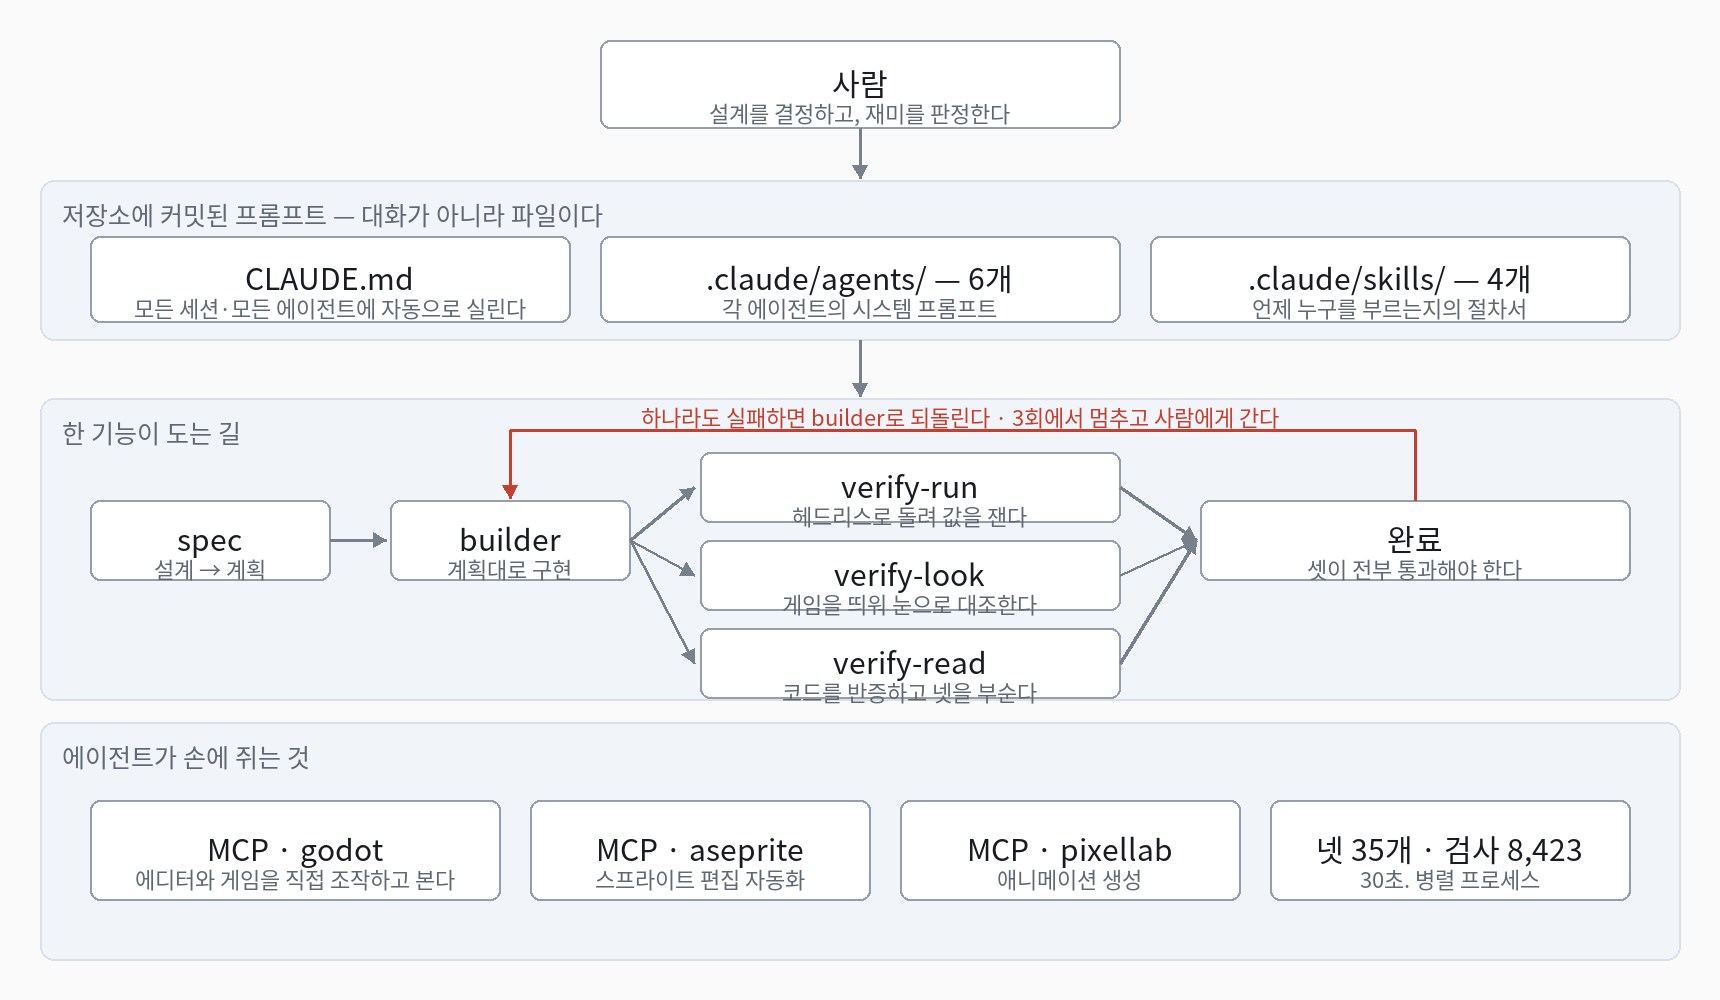
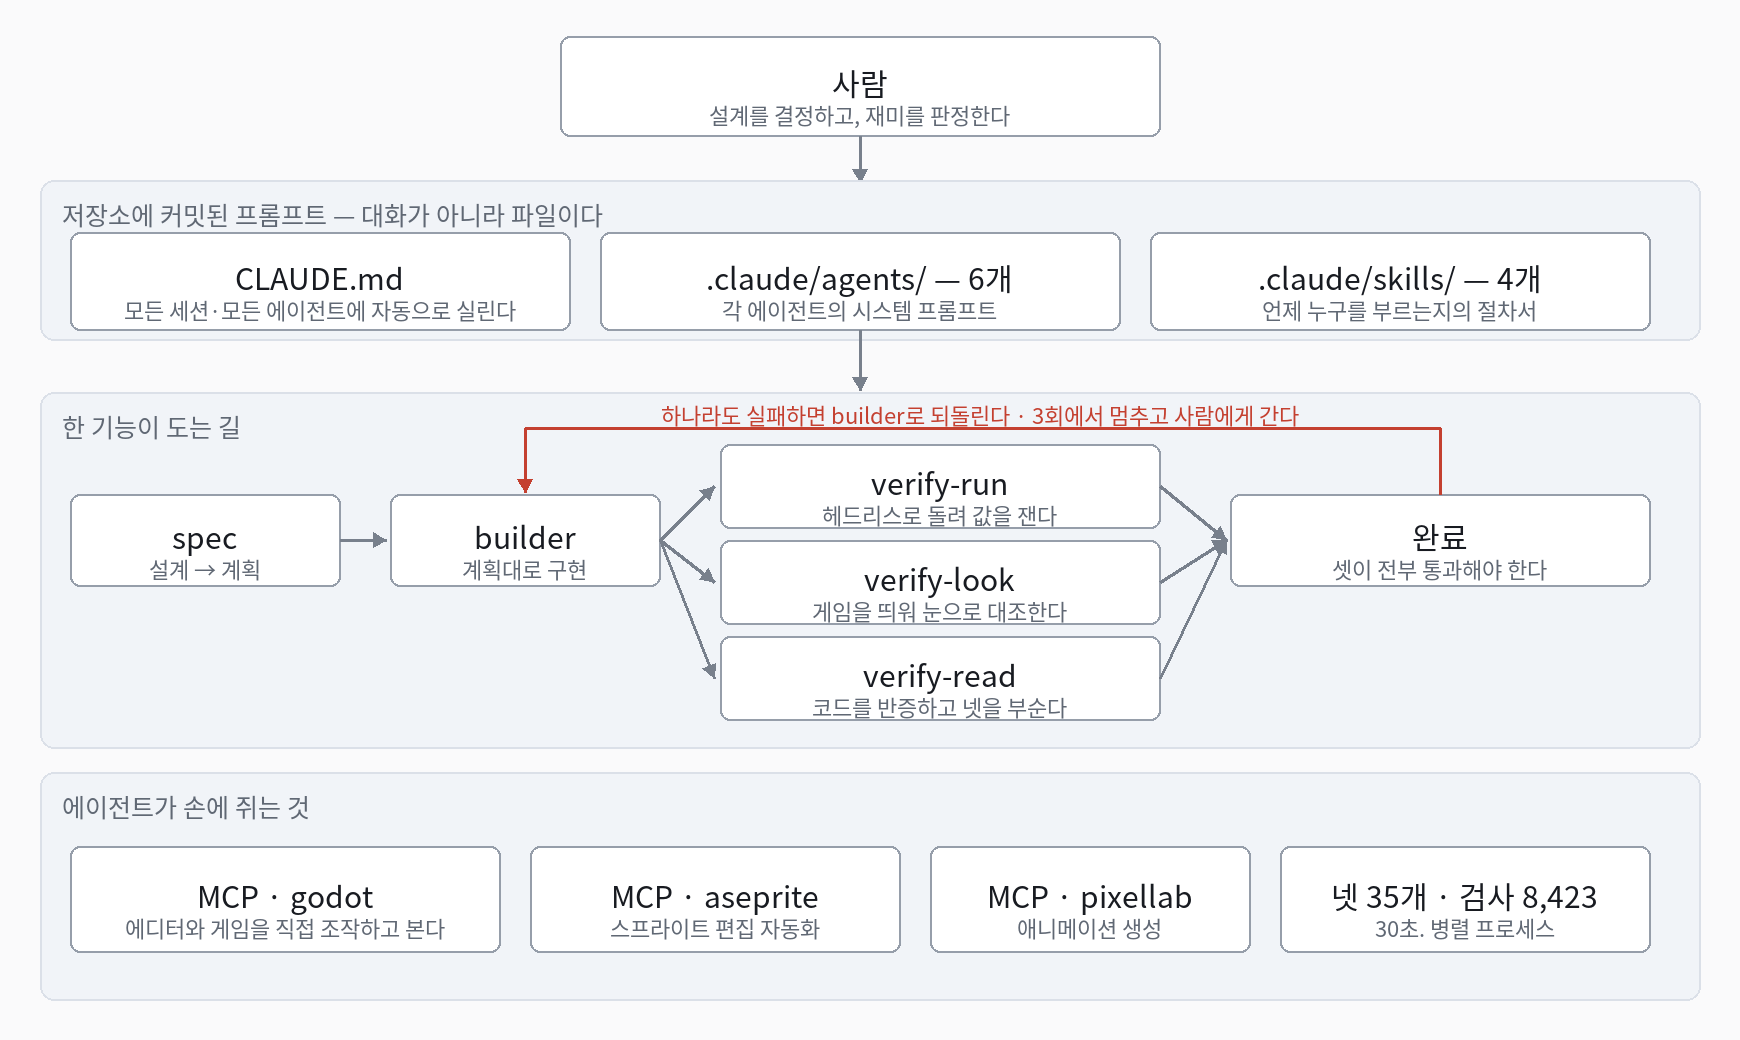
화면을 보고 고친 셋을 합쳤다

diff --git a/tools/submission/arch.py b/tools/submission/arch.py
@@ -16,7 +16,7 @@ ROOT = Path(__file__).resolve().parents[2]
 DST = ROOT / "docs" / "submission" / "img" / "ai-arch.png"
 FONT = ROOT / "assets" / "font" / "NotoSansKR-Regular.otf"
 
-W, H = 1720, 1000
+W, H = 1740, 1040
 BG = (250, 250, 251)
 BAND = (241, 244, 248)
 BAND_EDGE = (219, 224, 232)
@@ -40,14 +40,32 @@ def main() -> None:
         d.rounded_rectangle([40, y0, W - 40, y1], 14, fill=BAND, outline=BAND_EDGE, width=2)
         d.text((62, y0 + 16), title, font=f_band, fill=DIM)
 
+    # **Every string is measured against its box before it is drawn.** Hand-picked sizes
+    #  overflowed in three boxes at once, and an architecture figure with a label running
+    #  past its own frame reads as carelessness about the thing it is describing.
+    def fit(text, max_w, base):
+        size = base
+        while size > 13:
+            f = ImageFont.truetype(str(FONT), size)
+            if d.textlength(text, font=f) <= max_w:
+                return f
+            size -= 1
+        return ImageFont.truetype(str(FONT), 13)
+
+    PAD = 28
+
     def box(x0, y0, x1, y1, title, sub=None, edge=EDGE, width=2):
         d.rounded_rectangle([x0, y0, x1, y1], 10, fill=BOX, outline=edge, width=width)
         cx = (x0 + x1) / 2
+        inner = (x1 - x0) - PAD * 2
         if sub:
-            d.text((cx, y0 + (y1 - y0) / 2 - 24), title, font=f_box, fill=INK, anchor="ma")
-            d.text((cx, y0 + (y1 - y0) / 2 + 12), sub, font=f_sub, fill=DIM, anchor="ma")
+            d.text((cx, y0 + (y1 - y0) / 2 - 26), title,
+                   font=fit(title, inner, 30), fill=INK, anchor="ma")
+            d.text((cx, y0 + (y1 - y0) / 2 + 12), sub,
+                   font=fit(sub, inner, 22), fill=DIM, anchor="ma")
         else:
-            d.text((cx, (y0 + y1) / 2), title, font=f_box, fill=INK, anchor="mm")
+            d.text((cx, (y0 + y1) / 2), title,
+                   font=fit(title, inner, 30), fill=INK, anchor="mm")
 
     def arrow(p0, p1, color=ARROW, width=3, head=13):
         d.line([p0, p1], fill=color, width=width)
@@ -61,47 +79,47 @@ def main() -> None:
                   fill=color)
 
     # ── 사람 ────────────────────────────────────────────────────────────
-    box(600, 40, 1120, 128, "사람", "설계를 결정하고, 재미를 판정한다")
+    box(560, 36, 1160, 136, "사람", "설계를 결정하고, 재미를 판정한다")
 
-    arrow((860, 128), (860, 178))
+    arrow((860, 136), (860, 182))
 
     # ── 저장소에 커밋된 프롬프트 ─────────────────────────────────────────
     band(180, 340, "저장소에 커밋된 프롬프트 — 대화가 아니라 파일이다")
-    box(90, 236, 570, 322, "CLAUDE.md", "모든 세션·모든 에이전트에 자동으로 실린다")
-    box(600, 236, 1120, 322, ".claude/agents/ — 6개", "각 에이전트의 시스템 프롬프트")
-    box(1150, 236, 1630, 322, ".claude/skills/ — 4개", "언제 누구를 부르는지의 절차서")
+    box(70, 232, 570, 330, "CLAUDE.md", "모든 세션·모든 에이전트에 자동으로 실린다")
+    box(600, 232, 1120, 330, ".claude/agents/ — 6개", "각 에이전트의 시스템 프롬프트")
+    box(1150, 232, 1650, 330, ".claude/skills/ — 4개", "언제 누구를 부르는지의 절차서")
 
-    arrow((860, 340), (860, 396))
+    arrow((860, 330), (860, 390))
 
     # ── 한 기능이 도는 길 ───────────────────────────────────────────────
-    band(398, 700, "한 기능이 도는 길")
-    box(90, 500, 330, 580, "spec", "설계 → 계획")
-    box(390, 500, 630, 580, "builder", "계획대로 구현")
-    arrow((330, 540), (386, 540))
+    band(392, 748, "한 기능이 도는 길")
+    box(70, 494, 340, 586, "spec", "설계 → 계획")
+    box(390, 494, 660, 586, "builder", "계획대로 구현")
+    arrow((340, 540), (386, 540))
 
-    vx0, vx1 = 700, 1120
-    box(vx0, 452, vx1, 522, "verify-run", "헤드리스로 돌려 값을 잰다")
-    box(vx0, 540, vx1, 610, "verify-look", "게임을 띄워 눈으로 대조한다")
-    box(vx0, 628, vx1, 698, "verify-read", "코드를 반증하고 넷을 부순다")
-    for y in (487, 575, 663):
-        arrow((630, 540), (vx0 - 6, y))
+    vx0, vx1 = 720, 1160
+    box(vx0, 444, vx1, 528, "verify-run", "헤드리스로 돌려 값을 잰다")
+    box(vx0, 540, vx1, 624, "verify-look", "게임을 띄워 눈으로 대조한다")
+    box(vx0, 636, vx1, 720, "verify-read", "코드를 반증하고 넷을 부순다")
+    for y in (486, 582, 678):
+        arrow((660, 540), (vx0 - 6, y))
 
-    box(1200, 500, 1630, 580, "완료", "셋이 전부 통과해야 한다")
-    for y in (487, 575, 663):
-        arrow((vx1, y), (1196, 540))
+    box(1230, 494, 1650, 586, "완료", "셋이 전부 통과해야 한다")
+    for y in (486, 582, 678):
+        arrow((vx1, y), (1226, 540))
 
     # 되돌림
-    d.line([(1415, 500), (1415, 430), (510, 430), (510, 496)], fill=ACCENT, width=3)
-    arrow((510, 470), (510, 498), color=ACCENT)
-    d.text((960, 400), "하나라도 실패하면 builder로 되돌린다 · 3회에서 멈추고 사람에게 간다",
+    d.line([(1440, 494), (1440, 428), (525, 428), (525, 490)], fill=ACCENT, width=3)
+    arrow((525, 462), (525, 492), color=ACCENT)
+    d.text((980, 398), "하나라도 실패하면 builder로 되돌린다 · 3회에서 멈추고 사람에게 간다",
            font=f_note, fill=ACCENT, anchor="ma")
 
     # ── 에이전트가 손에 쥐는 것 ─────────────────────────────────────────
-    band(722, 960, "에이전트가 손에 쥐는 것")
-    box(90, 800, 500, 900, "MCP · godot", "에디터와 게임을 직접 조작하고 본다")
-    box(530, 800, 870, 900, "MCP · aseprite", "스프라이트 편집 자동화")
-    box(900, 800, 1240, 900, "MCP · pixellab", "애니메이션 생성")
-    box(1270, 800, 1630, 900, "넷 35개 · 검사 8,423", "30초. 병렬 프로세스")
+    band(772, 1000, "에이전트가 손에 쥐는 것")
+    box(70, 846, 500, 952, "MCP · godot", "에디터와 게임을 직접 조작하고 본다")
+    box(530, 846, 900, 952, "MCP · aseprite", "스프라이트 편집 자동화")
+    box(930, 846, 1250, 952, "MCP · pixellab", "애니메이션 생성")
+    box(1280, 846, 1650, 952, "넷 35개 · 검사 8,423", "30초. 병렬 프로세스")
 
     im.save(DST)
     print("[arch] %s  %dx%d" % (DST.name, im.width, im.height))
